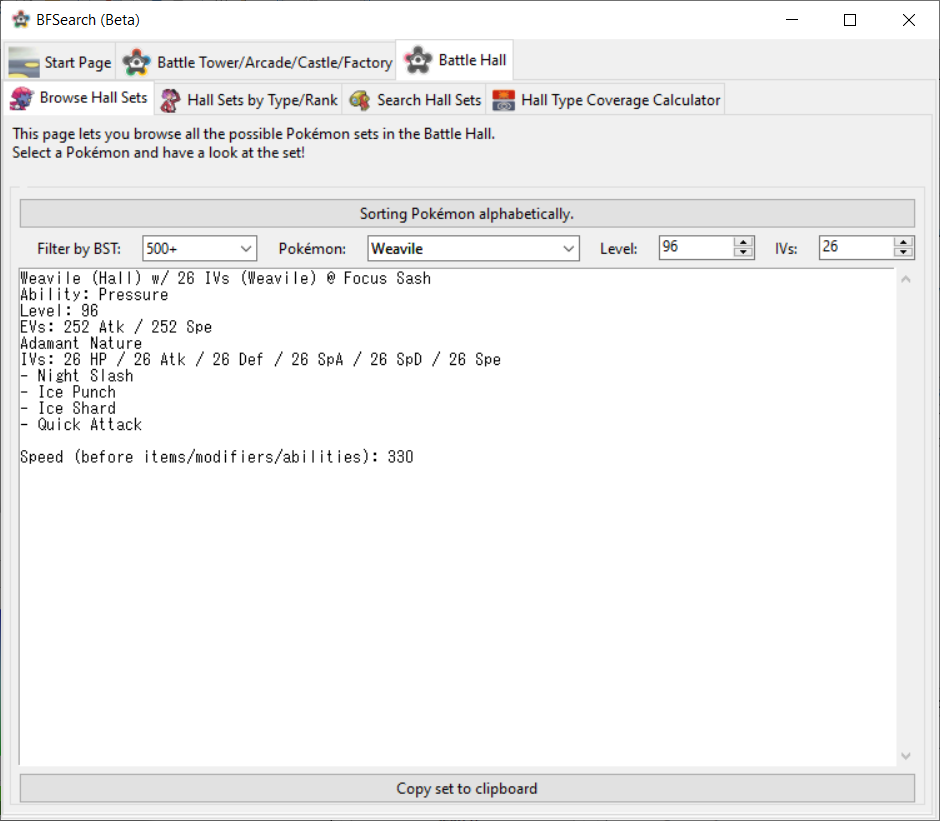
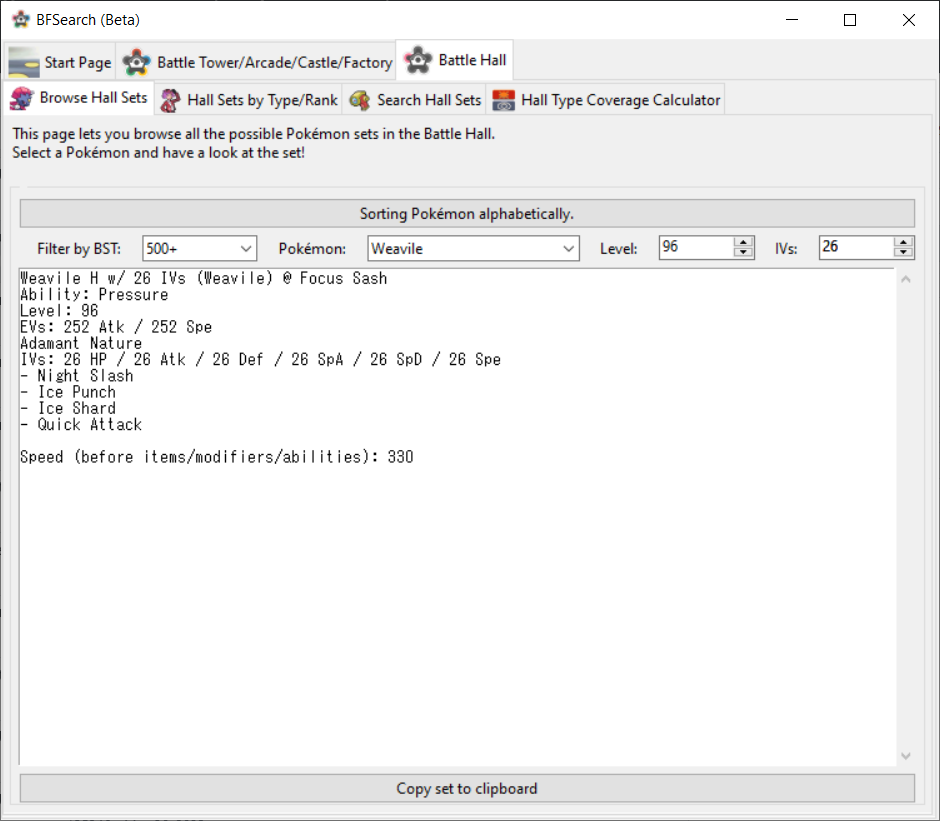
Update core.py
change hall showdown nickname

Changed region(s): [[0.0926, 0.2741, 0.4628, 0.3654], [0.9872, 0.0, 1.0, 0.0305], [0.8638, 0.2741, 0.8947, 0.3045]]

diff --git a/bfsearch/core.py b/bfsearch/core.py
@@ -267,7 +267,7 @@ class HallPokeSet(PokeSetBase):
         self.hallsetgroup = hallsetgroup
 
     def __str__(self):
-        return f"{self.species.name} (Hall)"
+        return f"{self.species.name} H"
 
 
 # a trainer.
